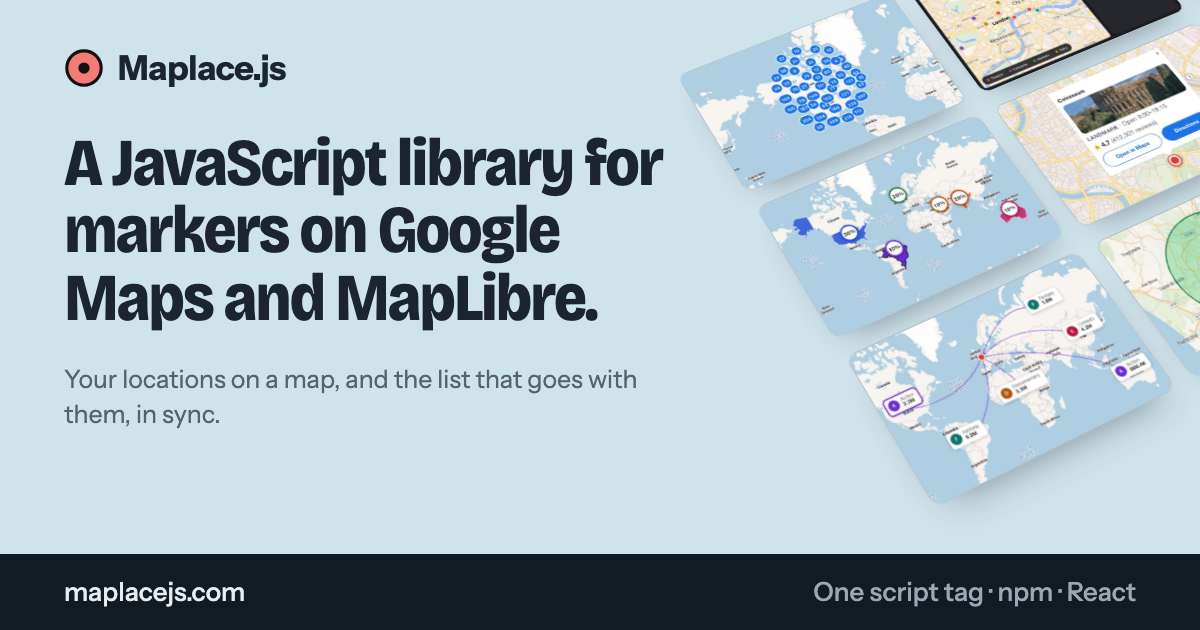
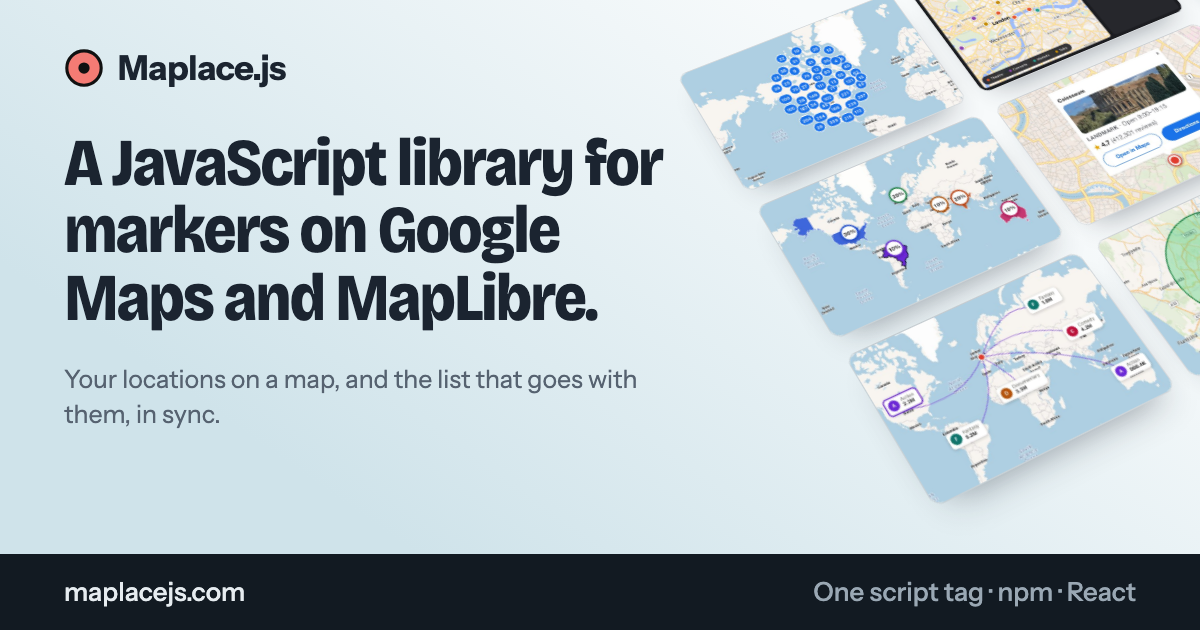
[upd] The heroes lit from their top right, the sharing image with them (W91)

Changed region(s): [[0.2775, 0.0, 1.0, 0.9048]]

diff --git a/apps/site/test/home-hero.test.ts b/apps/site/test/home-hero.test.ts
@@ -12,6 +12,7 @@ import { HOME_HEADING, HOME_INTRO, WAYS_IN_NOTES } from "../src/examples/home-pa
 import { componentOf } from "../src/examples/ways-in-files.ts";
 import { skillInstallCommand } from "../src/site/agent-links.ts";
 import { docRoute } from "../src/site/repo-docs.ts";
+import { HERO_LIGHT, WATER } from "./hero-ground.ts";
 import { cardsUnderCopy, cardsUnseen, tableTurnFunctions } from "./hero-table-probe.ts";
 import { chooseProvider } from "./home-sections.ts";
 import { opened, PUBLIC_SITE, siteBuiltBeforeTests } from "./site-session.ts";
@@ -23,7 +24,6 @@ const codeOf = (folder: string, file: string) => exampleFile(folder, file).trimE
 const site = siteBuiltBeforeTests();
 
 /** The hero's ground, as a computed colour. */
-const WATER = "rgb(207, 227, 234)";
 const SKILLS = skillInstallCommand(new URL(PUBLIC_SITE));
 const npmCommand = (provider: "google" | "maplibre") =>
   provider === "google"
@@ -59,9 +59,13 @@ describe("the home page's hero (W66)", () => {
       const [hero] = document
         .elementsFromPoint(innerWidth / 2, 8)
         .filter((at) => at.closest("main"));
-      return hero && getComputedStyle(hero.closest(".hero-water") ?? hero).backgroundColor;
+      if (!hero) return undefined;
+      const { backgroundColor, backgroundImage } = getComputedStyle(
+        hero.closest(".hero-water") ?? hero,
+      );
+      return { backgroundColor, backgroundImage };
     });
-    expect(underHeader).toBe(WATER);
+    expect(underHeader).toEqual({ backgroundColor: WATER, backgroundImage: HERO_LIGHT });
     const headlineFonts = await page.evaluate(async () => {
       await document.fonts.ready;
       const preloaded = document.querySelector<HTMLLinkElement>(

diff --git a/apps/site/test/home-page.test.ts b/apps/site/test/home-page.test.ts
@@ -10,14 +10,13 @@ import {
 } from "../src/examples/example-sections.ts";
 import { WAYS_IN_GOOGLE_LOADER } from "../src/examples/home-page.ts";
 import { docRoute } from "../src/site/repo-docs.ts";
+import { HERO_LIGHT, WATER } from "./hero-ground.ts";
 import { chooseProvider } from "./home-sections.ts";
 import { opened, SITE_MAP_ID, siteBuiltBeforeTests } from "./site-session.ts";
 import { boxOf, DESKTOP, PHONE } from "./visitor.ts";
 
 /** The band's ground, as a computed colour. */
 const NIGHT = "rgb(18, 26, 34)";
-/** The hero's ground, map water. */
-const WATER = "rgb(207, 227, 234)";
 
 const site = siteBuiltBeforeTests();
 
@@ -42,6 +41,10 @@ describe("the home page's night band (W66)", () => {
     await page.goto(new URL(EXAMPLES_PAGE_ROUTE, site.url).href);
     expect(await rowColours(page)).toEqual([NIGHT, "rgb(230, 236, 240)"]);
     expect(await groundOf(page.locator("h1"))).toBe(WATER);
+    const hero = page.locator(".hero-water");
+    expect(await hero.evaluate((ground) => getComputedStyle(ground).backgroundImage)).toBe(
+      HERO_LIGHT,
+    );
     await context.close();
   }, 30_000);
 

diff --git a/apps/site/og-image.html b/apps/site/og-image.html
@@ -4,7 +4,7 @@
     <meta charset="utf-8" />
     <title>Maplace.js: the Open Graph image</title>
     <!--
-      The site's sharing image, in the home page's look (W66, W85): its hero on map water, the
+      The site's sharing image, in the home page's look (W66, W85): its hero on map water lit from its top right, the
       headline set as the home page sets it, the examples' table tilted at the right, the night band
       at its foot; its colours and type are the `hero-water`, `band-dark` and `headline` utilities'
       (`src/styles/utilities.css`), written out. Drawn by `node scripts/og-image.ts` into
@@ -26,7 +26,7 @@
       html, body { margin: 0; }
       body {
         position: relative; width: 1200px; height: 630px; overflow: hidden;
-        background: #cfe3ea; color: #1b2430;
+        background: linear-gradient(215deg, #f7fafb 20%, #cfe3ea 75%) #cfe3ea; color: #1b2430;
         font-family: "Instrument Sans", sans-serif;
       }
       .name {

diff --git a/apps/site/src/styles/utilities.css b/apps/site/src/styles/utilities.css
@@ -18,14 +18,14 @@
 /*
  * The home page's two grounds (W66), its own: each redefines the tokens the utilities read, so
  * whatever it holds keeps its utilities and takes its colours. `hero-water`: the hero, slate on
- * map water (`#cfe3ea`); `band-dark`: the band below it, the map at night.
+ * map water (`#cfe3ea`) lit from its top right; `band-dark`: the band below it, the map at night.
  */
 @utility hero-water {
   --color-paper: #f2f5f3;
   --color-ink: #1b2430;
   --color-muted: #566270;
   --color-wash: #e3eae7;
-  background: #cfe3ea;
+  background: linear-gradient(215deg, #f7fafb 20%, #cfe3ea 75%) #cfe3ea;
   color: var(--color-ink);
 }
 

diff --git a/apps/site/test/hero-ground.ts b/apps/site/test/hero-ground.ts
@@ -1,0 +1,3 @@
+/** The heroes' ground (`hero-water`), as computed: map water, lit from its top right. */
+export const WATER = "rgb(207, 227, 234)";
+export const HERO_LIGHT = "linear-gradient(215deg, rgb(247, 250, 251) 20%, rgb(207, 227, 234) 75%)";

diff --git a/docs/MODERNIZE.md b/docs/MODERNIZE.md
@@ -425,6 +425,7 @@ Full parity with Google where MapLibre can (D21's capabilities say where it can'
 | W88 | Every code block rounded; the copy button filling its corner | done | Asked 2026-11-23: a doc's code was square, as only an example's page set `--code-corner`; now `base.css` sets it for the site (`frame.css` keeps the map's and the buttons'), the home page's panels keeping their own. A long first line showed past the copy button, in the gap at its right: the button (`CodeCopyTemplate.astro`) now fills the block's top-right corner, 48px, rounded to it, its icon where it was. Held by `code-copy-buttons.test.ts`. |
 | W89 | The audience and share-by-country lists, quieter | done | Asked 2026-11-23: their side lists read bold and big. Audience: each region's name and viewers on one line, its genre (by a dot of its colour) and share under them, the share a thin bar on a light track; share by country: each country's name by a swatch of its colour (no filled chip), its share right-aligned, smaller dots under the name. Every version's entry markup in both examples, their stylesheets and guides; the audience behaviour check reads the new entry text. |
 | W90 | No source map 404 for MapLibre's worker on the site | done | Found 2026-11-24 on the preview after 1.3 reached `main`: with DevTools open, every MapLibre map asked for `/_astro/maplibre-gl-worker.mjs.map` and got a 404, as the site's build copies maplibre-gl's worker (`maplibre-assets.ts`, `?url`) with its trailing `//# sourceMappingURL=` comment but not the 2.5 MB map. Visitors saw nothing; the package isn't affected (the MapLibre CDN script already dropped the comment, its worker inlined). `src/site/maplibre-worker-plugin.ts` drops it in the client build, through `withoutSourceMapComment`, moved to `scripts/build/source-map-comment.ts` and shared with the CDN bundle; held by its unit test and by `examples-on-maplibre.test.ts` reading the built worker. A site change on `main`: no CHANGELOG line, live with the next deploy. |
+| W91 | The heroes lit from their top right | done | Asked 2026-11-24: the home page's hero and the examples page's on `linear-gradient(215deg, #f7fafb 20%, #cfe3ea 75%)` over the map water (`hero-water`, `utilities.css`, the one ground both use), the sharing image's ground with it (`og-image.html`, `og-image.png` redrawn). Held by `home-hero.test.ts` and `home-page.test.ts` (the computed gradient beside the water colour, `test/hero-ground.ts`). A site change on `main`: live with the next by-hand Deploy or release. |
 
 ## 9. Go public (only at the gate, in this order)
 | # | Item | Status | Note |
